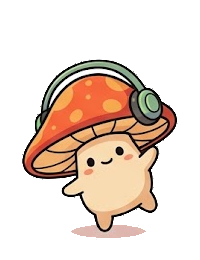
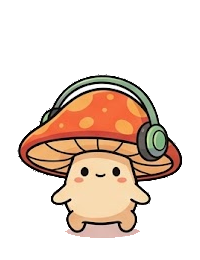
feat: 12-frame smooth Capi mascot, settings-toggleable dev tab, cross-device hardware telemetry, and polished branded Inno Setup installer/uninstaller

Changed region(s): [[0.09, 0.2154, 0.93, 0.9231]]

diff --git a/dist/index.html b/dist/index.html
@@ -4,7 +4,7 @@
     <meta charset="UTF-8" />
     <meta name="viewport" content="width=device-width, initial-scale=1.0" />
     <title>Canopy</title>
-    <script type="module" crossorigin src="./assets/index-Dia9Big6.js"></script>
+    <script type="module" crossorigin src="./assets/index-geOU9PX8.js"></script>
     <link rel="stylesheet" crossorigin href="./assets/index-DWya5_Et.css">
   </head>
   <body style="background: transparent; overflow: hidden; user-select: none; margin: 0; padding: 0;">

diff --git a/src/views/SettingsView.tsx b/src/views/SettingsView.tsx
@@ -541,8 +541,8 @@ export const SettingsView: React.FC<SettingsViewProps> = ({
             </SettingRow>
 
             <SettingRow
-              title="Show Developer Console"
-              description="Interactive PowerShell shell tab"
+              title="Developer Tab"
+              description="Show Developer PowerShell console & system fastfetch tab"
             >
               <ToggleSwitch
                 checked={settings.showTerminalTab}

diff --git a/src/components/CanopyMascot.tsx b/src/components/CanopyMascot.tsx
@@ -18,6 +18,11 @@ const CAPI_FRAMES = [
   '/capi_5.png',
   '/capi_6.png',
   '/capi_7.png',
+  '/capi_8.png',
+  '/capi_9.png',
+  '/capi_10.png',
+  '/capi_11.png',
+  '/capi_12.png',
 ];
 
 /**

diff --git a/Services/SystemMonitorService.cs b/Services/SystemMonitorService.cs
@@ -963,6 +963,31 @@ public sealed class SystemMonitorService : IDisposable
             }
             catch { }
         }
+
+        try
+        {
+            using var baseKey = Microsoft.Win32.Registry.LocalMachine.OpenSubKey(@"SYSTEM\CurrentControlSet\Control\Class\{4d36e968-e325-11ce-bfc1-08002be10318}");
+            if (baseKey is not null)
+            {
+                foreach (string sub in baseKey.GetSubKeyNames())
+                {
+                    if (sub.Length == 4 && char.IsDigit(sub[0]))
+                    {
+                        using var cardKey = baseKey.OpenSubKey(sub);
+                        string? desc = cardKey?.GetValue("DriverDesc") as string;
+                        if (!string.IsNullOrWhiteSpace(desc) &&
+                            !desc.Contains("Basic", StringComparison.OrdinalIgnoreCase) &&
+                            !desc.Contains("Virtual", StringComparison.OrdinalIgnoreCase))
+                        {
+                            _staticGpuName = desc.Trim();
+                            return _staticGpuName;
+                        }
+                    }
+                }
+            }
+        }
+        catch { }
+
         return "DirectX 3D Video Controller";
     }
 
